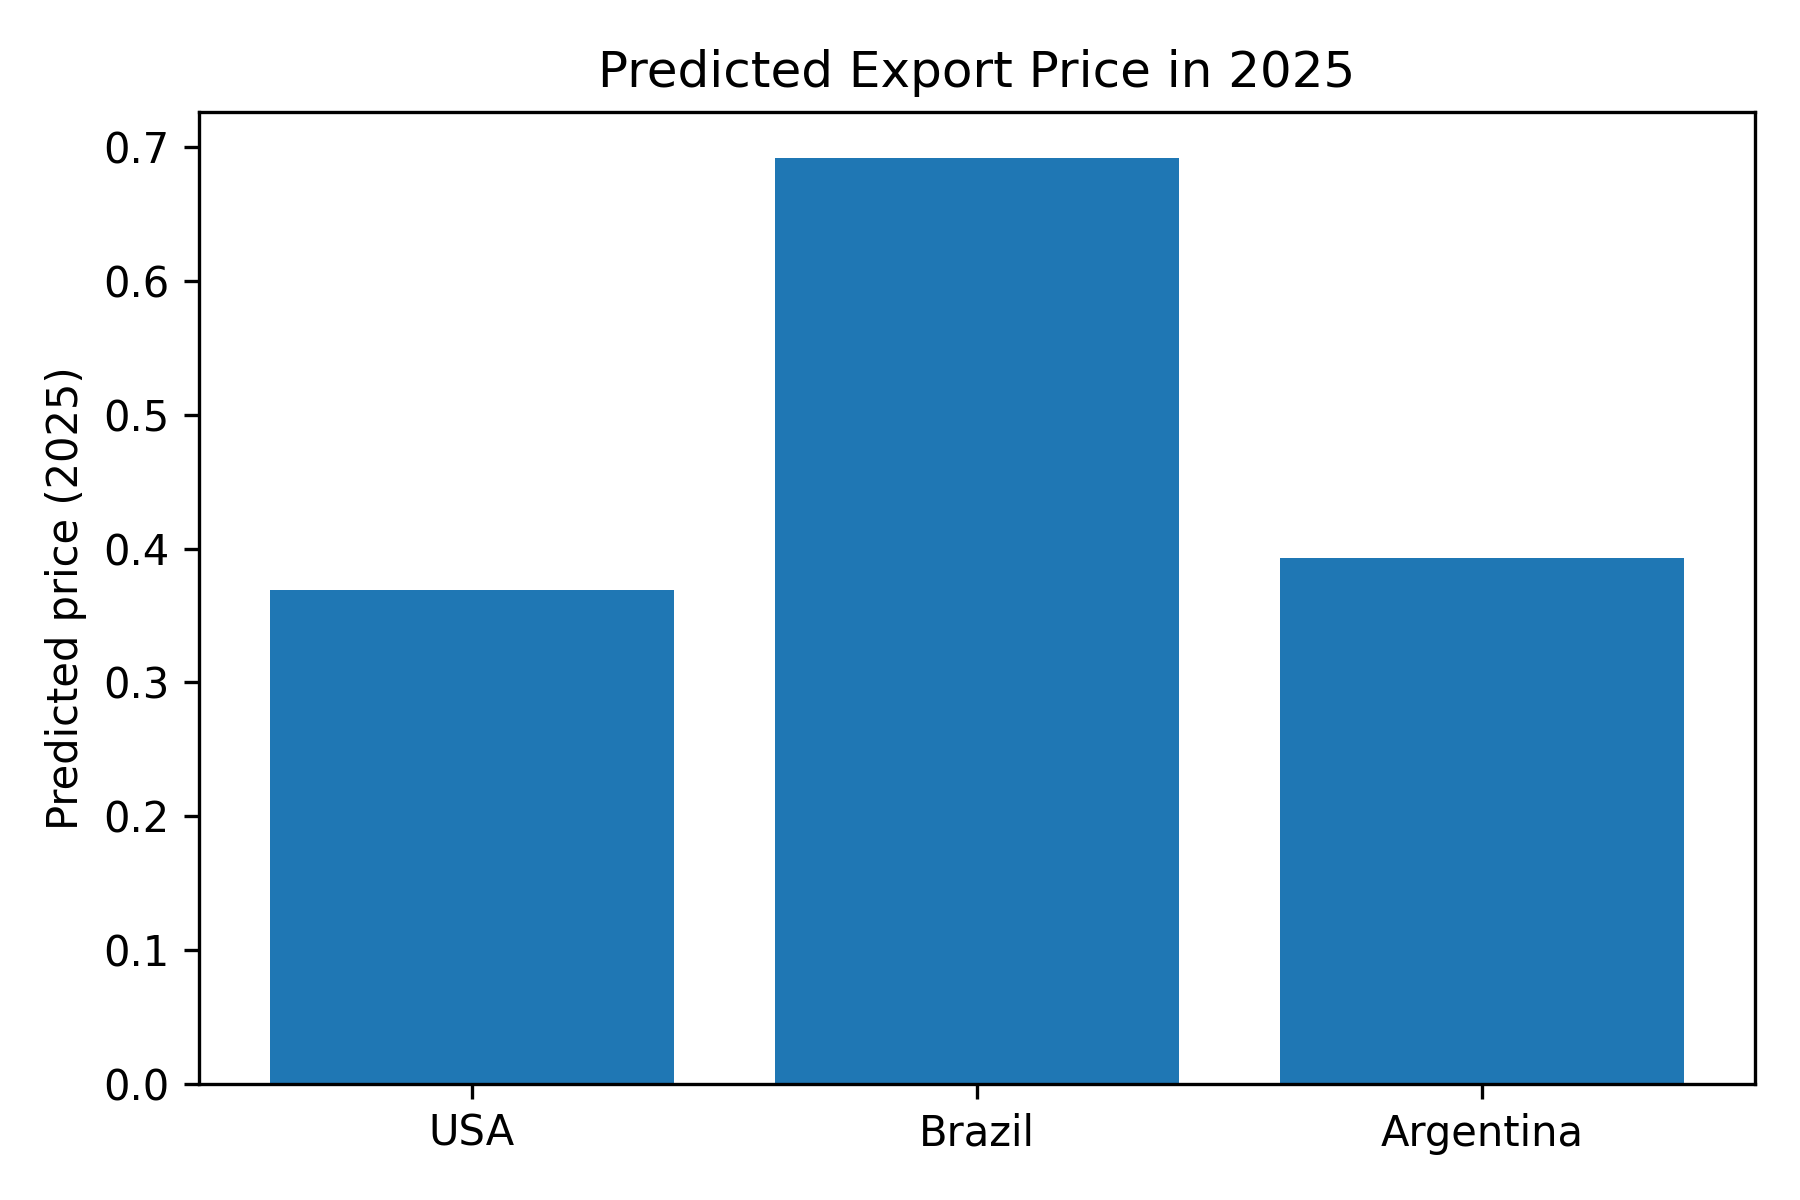
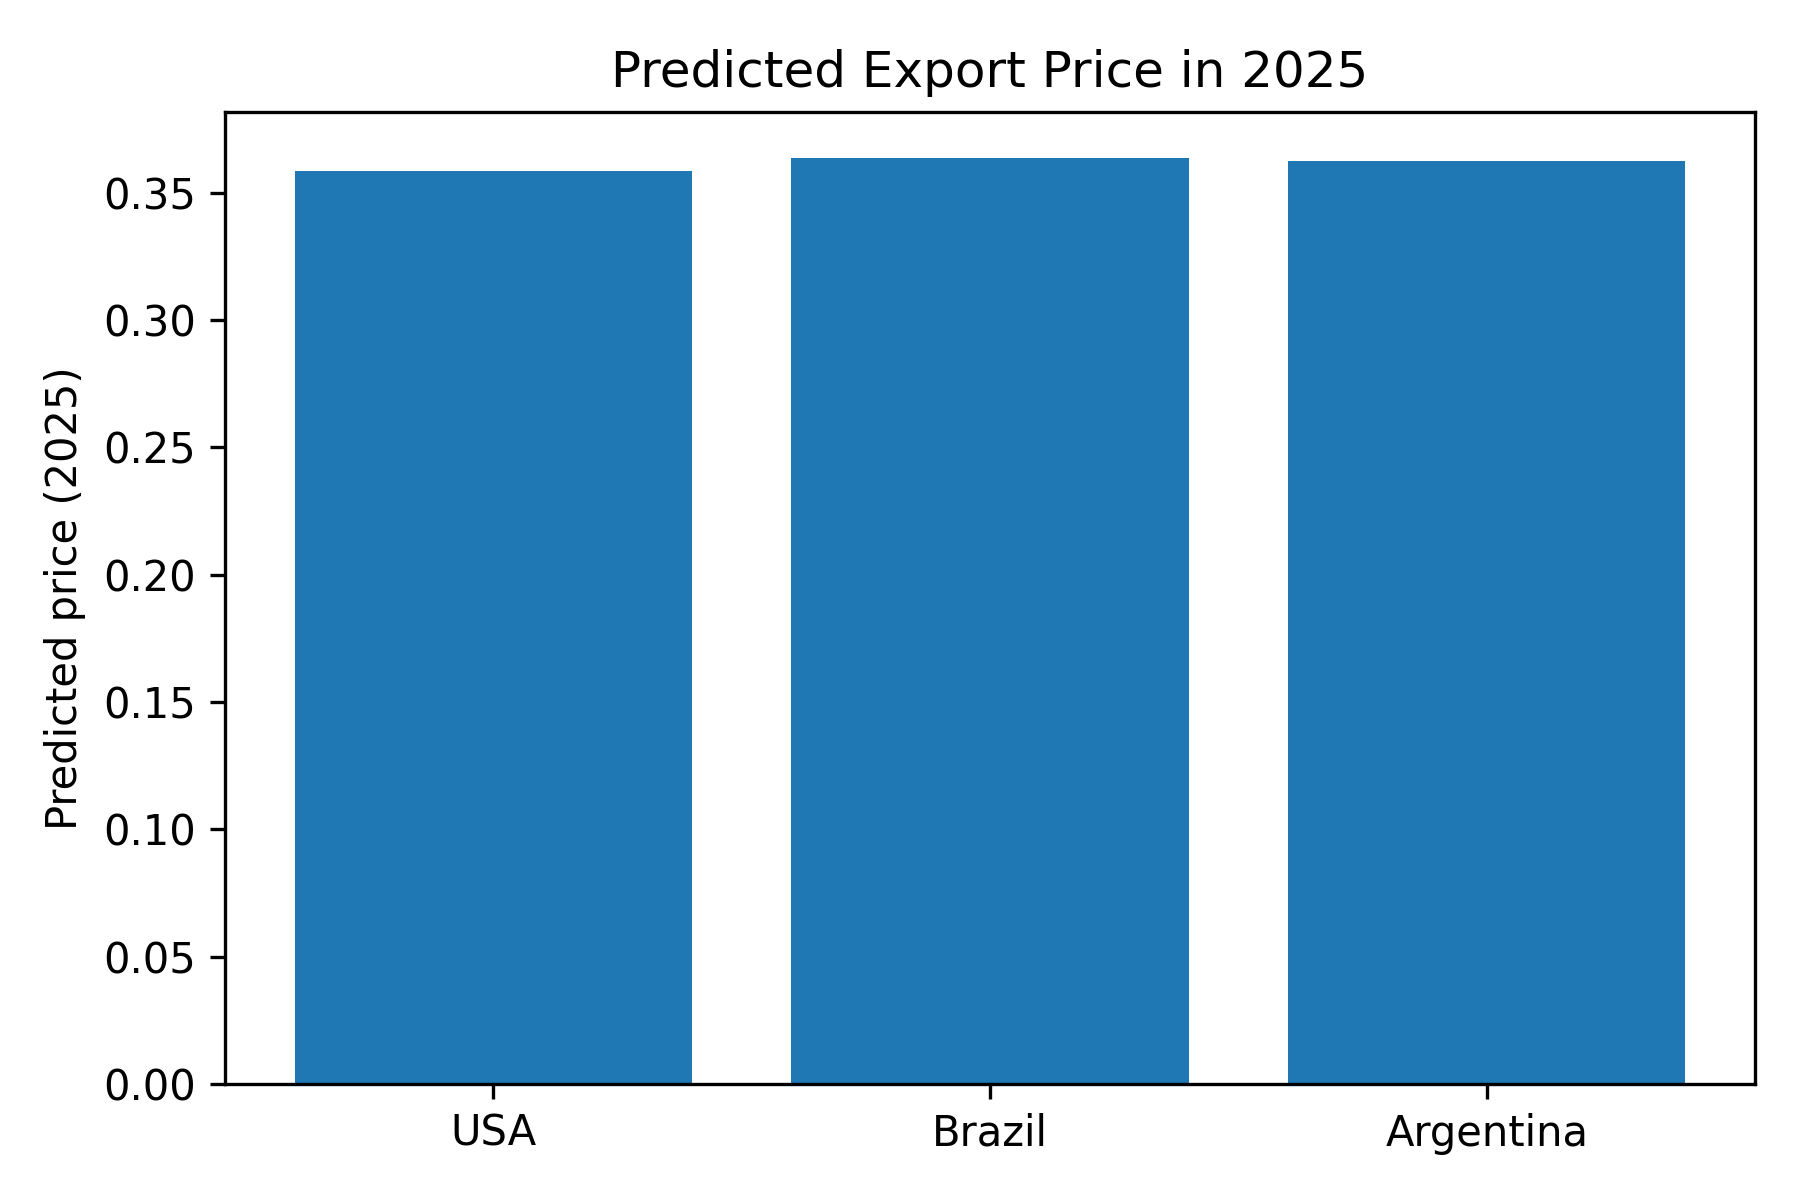
更新回归模型自变量，移除不必要的税率变量，并调整预测模型的滞后期

diff --git a/APMCM-Problem-C/newT1pred.py b/APMCM-Problem-C/newT1pred.py
@@ -130,7 +130,6 @@ if share_df.shape[0] < 3:
 else:
     X = share_df[['ln_prod_share',
                   'ln_tariff_us_cn',
-                  'ln_tariff_cn_us',
                   'elasticity']].copy()
     # 国家虚拟变量
     dummies = pd.get_dummies(share_df['country'], drop_first=True)
@@ -201,8 +200,8 @@ if share_model is not None:
         # 只对 Brazil & Argentina 构造回归自变量
         df_25_sub = df_25[df_25['country'].isin(['Brazil', 'Argentina'])].copy()
         df_25_sub['ln_prod_share'] = np.log(df_25_sub['prod_share'])
-        df_25_sub['ln_tariff_us_cn'] = np.log1p(df_25_sub['tariff us-cn'] / 100.0)
-        df_25_sub['ln_tariff_cn_us'] = np.log1p(df_25_sub['tariff cn-us'] / 100.0)
+        df_25_sub['ln_tariff_us_cn'] = np.log1p(df_25_sub['tariff us-cn'])
+        df_25_sub['ln_tariff_cn_us'] = np.log1p(df_25_sub['tariff cn-us'])
 
         df_25_sub = df_25_sub.replace([np.inf, -np.inf], np.nan)
         df_25_sub = df_25_sub.dropna(subset=[
@@ -281,11 +280,11 @@ for c in ['USA', 'Brazil', 'Argentina']:
     if sub.shape[0] >= 4:
         logP = np.log(sub['price'].values)
         try:
-            ar_price = AutoReg(logP, lags=3, old_names=False).fit()
+            ar_price = AutoReg(logP, lags=2, old_names=False).fit()
             price_models[c] = ar_price
             logP_25 = ar_price.forecast(steps=1)[0]
             price_hat_25[c] = float(np.exp(logP_25))
-            print(f"\n{c} 价格 AR(3) 预测 2025: {price_hat_25[c]:.4f}")
+            print(f"\n{c} 价格 AR(2) 预测 2025: {price_hat_25[c]:.4f}")
         except Exception as e:
             # 回退到最后一次简单增长率预测
             if sub.shape[0] >= 2:
